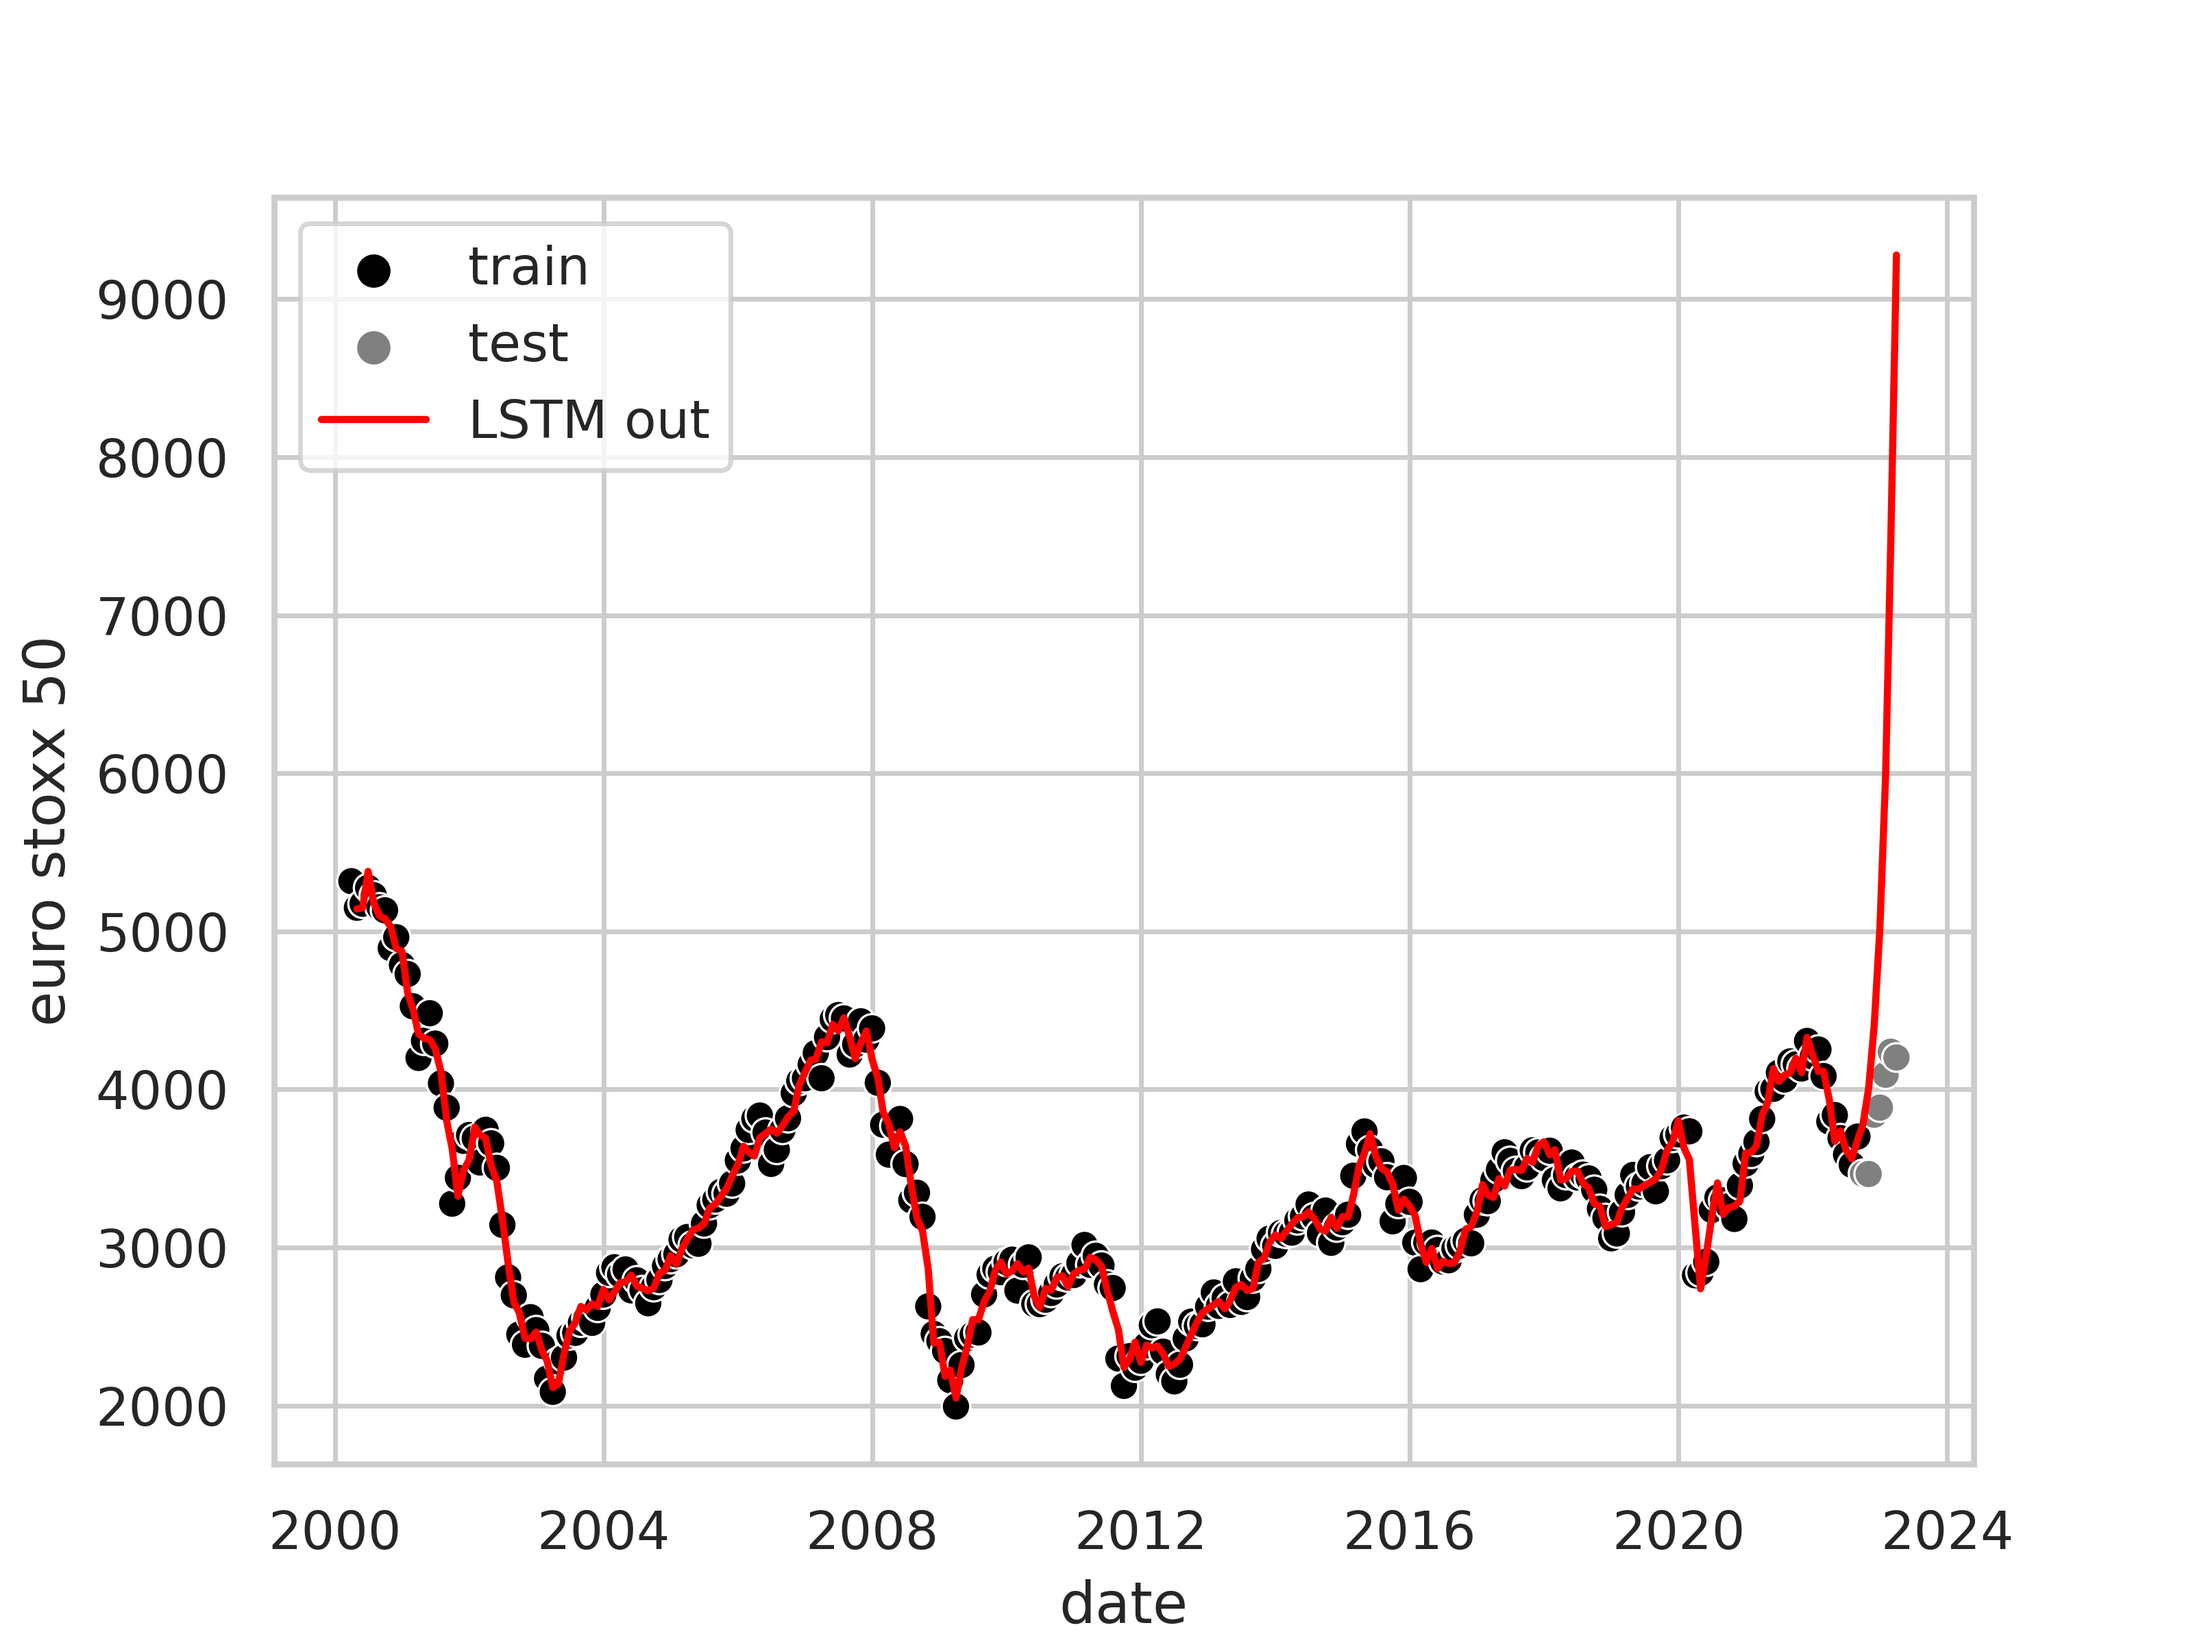
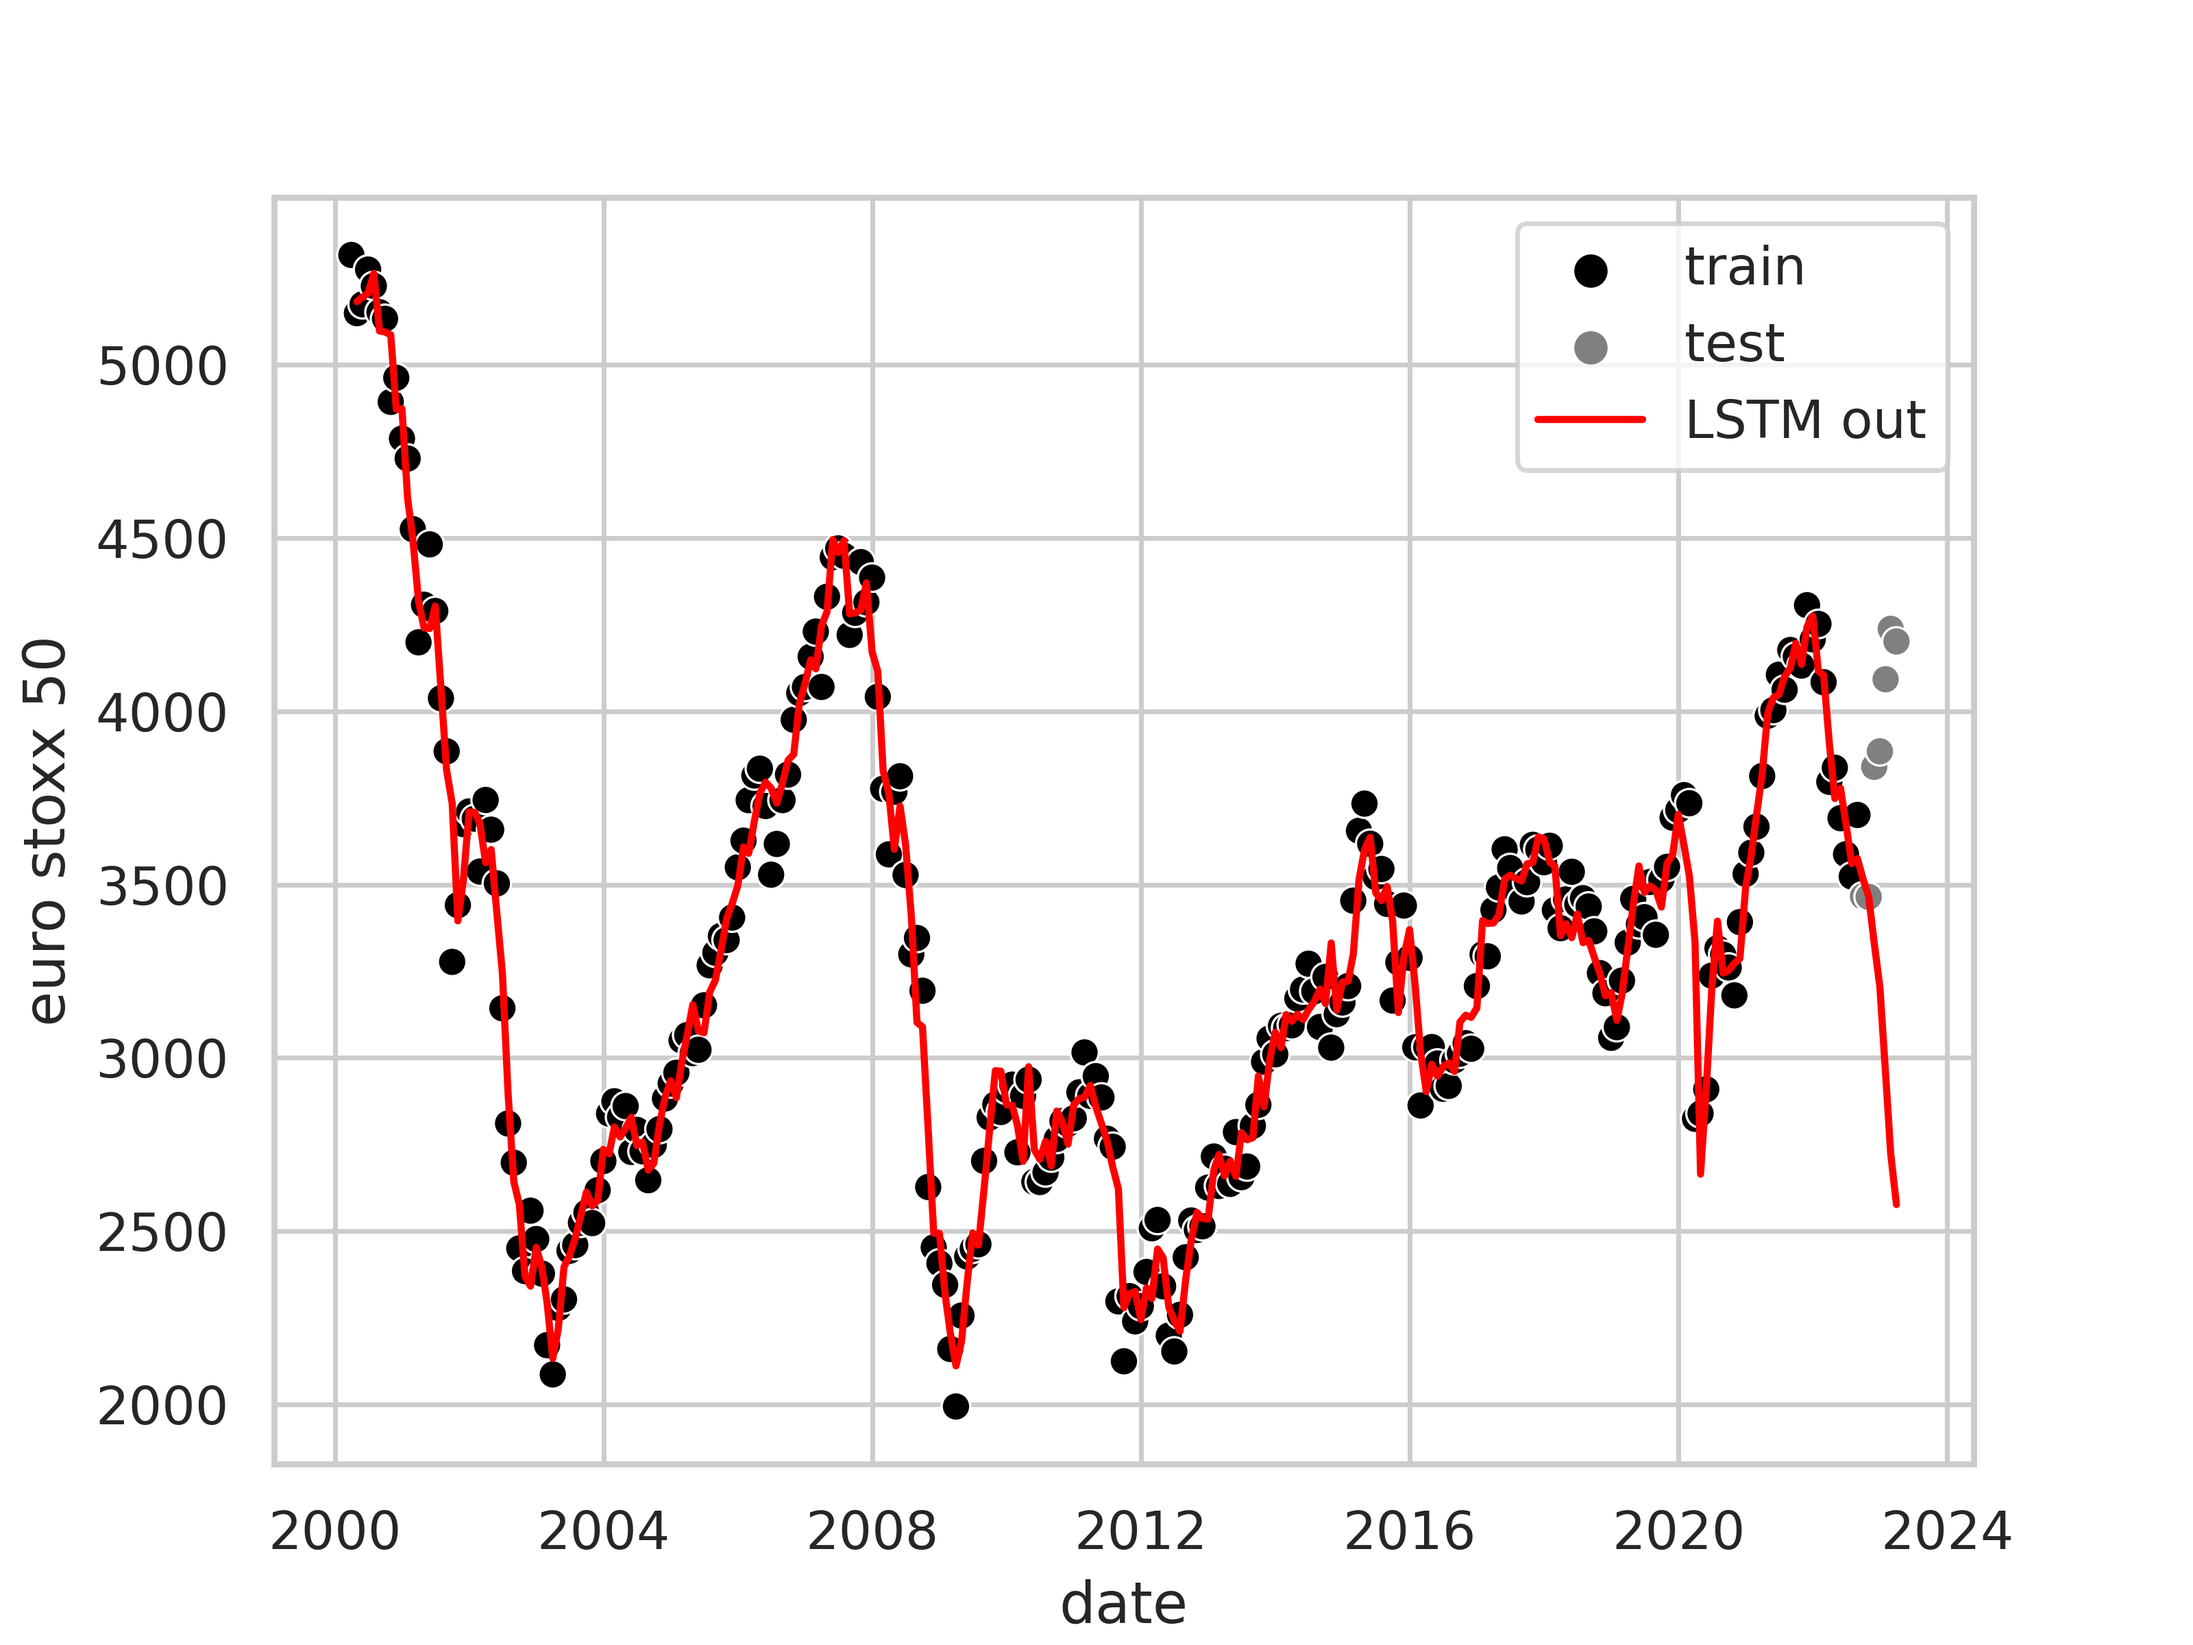
LSTM: train all with 64 hidden dim
meh.

diff --git a/src/eu_unemployment_prediction/lstm/unemployment_lstm_trainer.py b/src/eu_unemployment_prediction/lstm/unemployment_lstm_trainer.py
@@ -69,16 +69,13 @@ class UnemploymentLstmTrainer:
 
     def _run_epoch(self) -> Optional[Tensor]:
         loss = None
-        hidden = torch.zeros(1, self._model.hidden_dim, device=self._device)
-        cell = torch.zeros(1, self._model.hidden_dim, device=self._device)
+        hidden = tuple(torch.zeros(1, self._model.hidden_dim, device=self._device) for _ in range(2))
         for train_chunk, target_chunk in self._data.chunks(self._chunk_size):
             lstm_input = torch.tensor(train_chunk, device=self._device)
             self._LOGGER.debug(f"Training with chunk of size {train_chunk.shape}")
             self._optimizer.zero_grad()
-            hidden = hidden.detach()
-            cell = cell.detach()
 
-            out, (hidden, cell) = self._model(lstm_input, (hidden, cell))
+            out, hidden = self._model(lstm_input, hidden)
             loss = self._loss_function(out, torch.tensor(target_chunk, device=self._device))
 
             loss.backward()

diff --git a/scripts/lstm_all.py b/scripts/lstm_all.py
@@ -12,6 +12,7 @@ if __name__ == "__main__":
         # exclude POPULATION because it's latest data point is the end of 2022
         [feature for feature in InputDataType if feature is not InputDataType.POPULATION],
         epochs=20000,
+        lstm_hidden_dim=64,
         learning_rates=[0.01, 0.001, 0.0001, 0.0001],
         test_data_cut_off_date="2022-09-15",
         plot_zoom_date="2022-01-01",
